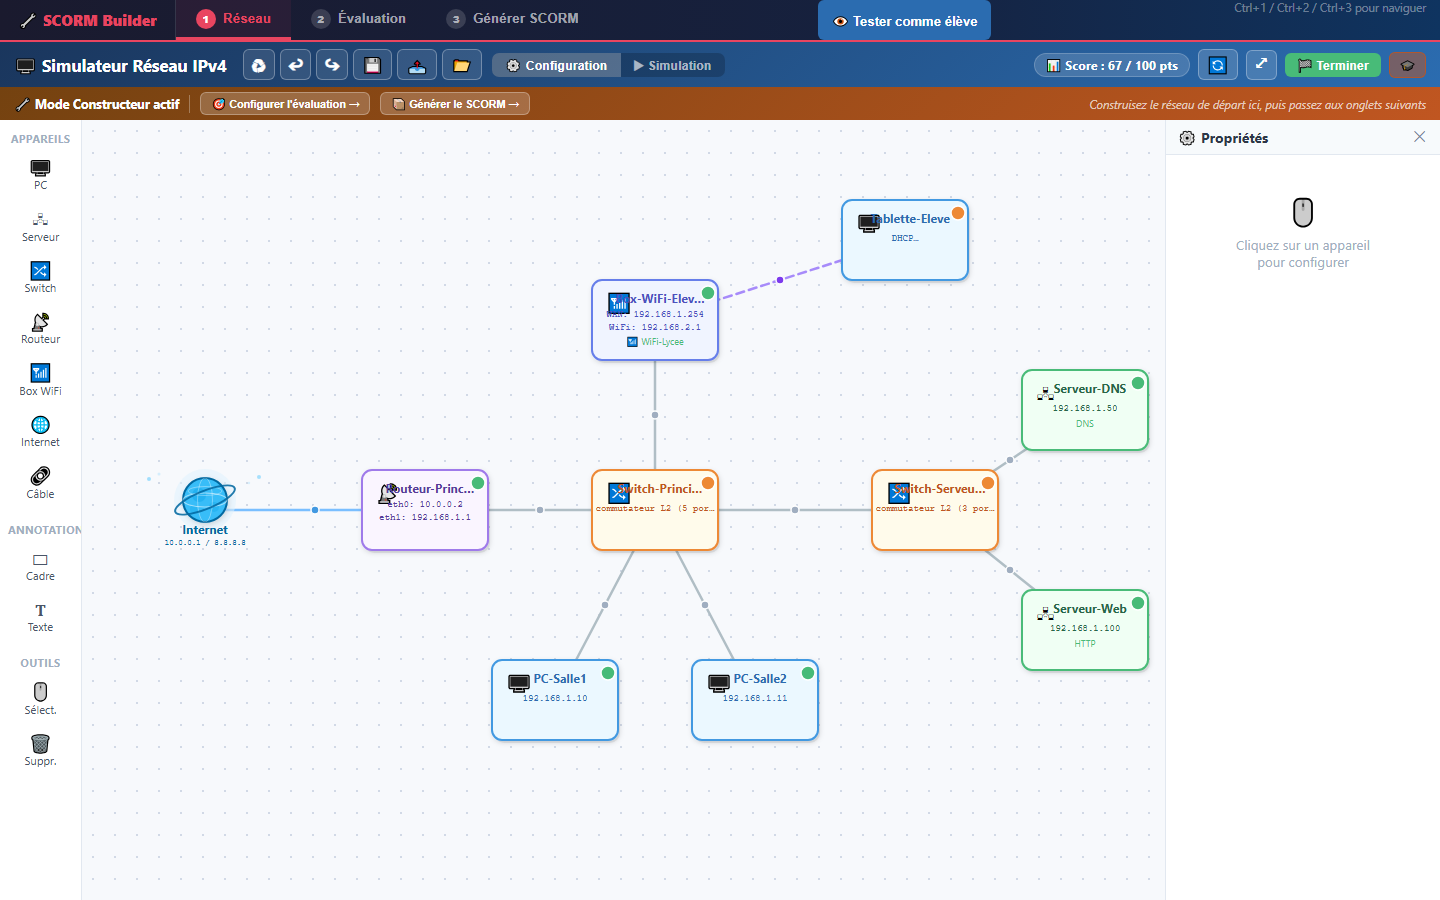
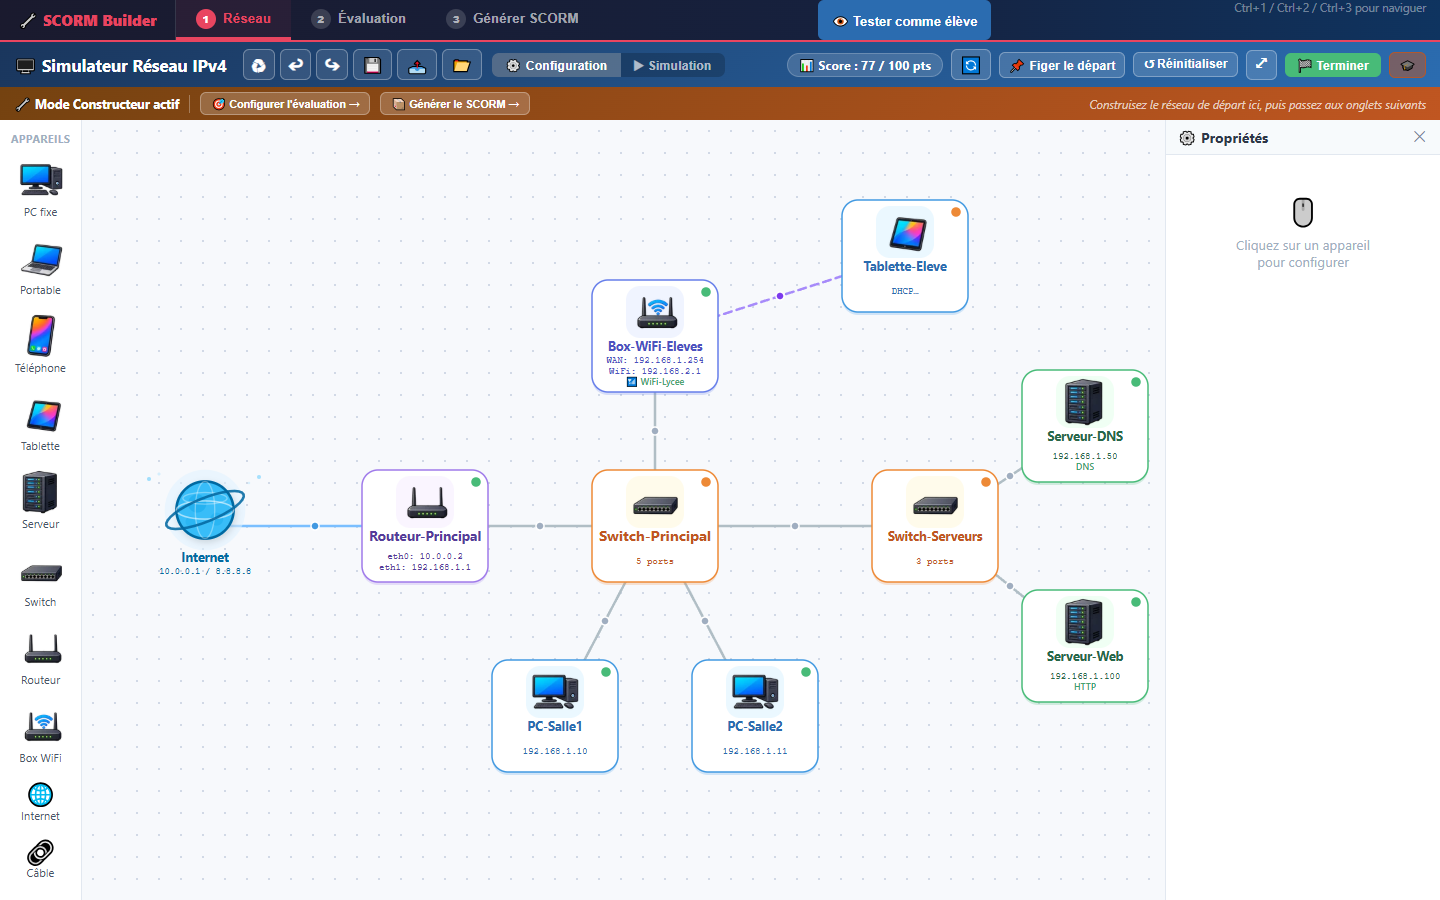
docs: release v1.6 — cartes illustrées, score en direct, Figer/Réinitialiser

diff --git a/site/index.html b/site/index.html
@@ -143,7 +143,7 @@ footer .wrap { display: flex; flex-wrap: wrap; gap: 8px 24px; justify-content: s
 
 <header class="top">
   <div class="wrap">
-    <a class="brand" href="#">Simulateur Réseau IPv4<span class="mono">v1.5</span></a>
+    <a class="brand" href="#">Simulateur Réseau IPv4<span class="mono">v1.6</span></a>
     <nav aria-label="Sections de la page">
       <a href="#exemples">Exemples</a>
       <a href="#builder">Interface enseignant</a>
@@ -162,7 +162,7 @@ footer .wrap { display: flex; flex-wrap: wrap; gap: 8px 24px; justify-content: s
         <div class="phase">
           <p class="phase-label">Concevoir</p>
           <h3>Créer un réseau</h3>
-          <p>Glissez PC, serveurs, switchs, routeurs et box WiFi sur le canevas, câblez-les, puis réglez les adresses IP et les services HTTP, DNS et DHCP.</p>
+          <p>Glissez PC fixes et portables, téléphones, tablettes, serveurs, switchs, routeurs et box WiFi sur le canevas, câblez-les, puis réglez les adresses IP et les services HTTP, DNS et DHCP.</p>
           <h3>Modifier un réseau</h3>
           <p>Importez un exemple ou l’un de vos scénarios enregistrés en JSON, adaptez-le à votre classe, puis exportez une nouvelle version.</p>
         </div>
@@ -185,7 +185,7 @@ footer .wrap { display: flex; flex-wrap: wrap; gap: 8px 24px; justify-content: s
       </div>
 
       <figure class="shot">
-        <img src="assets/eleve-terminal.png" width="1440" height="900" loading="lazy" alt="Simulateur en mode Simulation : réseau domestique avec Box WiFi, switch, trois appareils et Internet. Dans le terminal, le ping échoue et la cause indique que la passerelle 192.168.99.1 n’est pas dans le sous-réseau de PC-Bureau.">
+        <img src="assets/eleve-terminal.png" width="1440" height="900" loading="lazy" alt="Simulateur en mode Simulation : réseau domestique avec Box WiFi, switch, trois appareils et Internet, fiche de PC-Bureau ouverte. Dans le terminal, le ping échoue et la cause indique que la passerelle 192.168.99.1 n’est pas dans le sous-réseau de PC-Bureau.">
         <figcaption>Activité « Réseau Maison » : le <code>ping</code> échoue, à l’élève de trouver quel réglage corriger.</figcaption>
       </figure>
     </div>
@@ -261,6 +261,7 @@ footer .wrap { display: flex; flex-wrap: wrap; gap: 8px 24px; justify-content: s
         <ul class="checks">
           <li><b>Réseau :</b> appareils, câbles, adressage et WiFi</li>
           <li><b>Évaluation :</b> objectifs, score et pannes</li>
+          <li><b>Test :</b> score en direct et retour à l’état de départ en un clic</li>
           <li><b>Générer :</b> exports et import de scénarios</li>
         </ul>
         <a class="btn primary" href="scorm-builder.html">Ouvrir l’interface enseignant</a>
@@ -304,12 +305,12 @@ footer .wrap { display: flex; flex-wrap: wrap; gap: 8px 24px; justify-content: s
         <a class="doc" href="doc-prof.pdf">
           <h3>Guide enseignant</h3>
           <p>Créer une activité avec le builder et la déployer sur Moodle.</p>
-          <span class="mono">doc-prof.pdf · v1.5</span>
+          <span class="mono">doc-prof.pdf · v1.6</span>
         </a>
         <a class="doc" href="doc-eleve.pdf">
           <h3>Guide élève</h3>
           <p>Prendre en main l’interface et les commandes du terminal.</p>
-          <span class="mono">doc-eleve.pdf · v1.5</span>
+          <span class="mono">doc-eleve.pdf · v1.6</span>
         </a>
       </div>
     </div>
@@ -318,7 +319,7 @@ footer .wrap { display: flex; flex-wrap: wrap; gap: 8px 24px; justify-content: s
 
 <footer>
   <div class="wrap">
-    <span>Simulateur Réseau IPv4 · <a href="https://github.com/SII-GuilbertS/simulateur-reseau-scorm/releases/tag/v1.5">version 1.5</a> · novembre 2026</span>
+    <span>Simulateur Réseau IPv4 · <a href="https://github.com/SII-GuilbertS/simulateur-reseau-scorm/releases/tag/v1.6">version 1.6</a> · novembre 2026</span>
     <span>Réalisé par <a href="mailto:sylvain.guilbert1@ac-toulouse.fr">Sylvain Guilbert</a> avec l’aide de l’IA Claude</span>
     <a href="https://github.com/SII-GuilbertS/simulateur-reseau-scorm">Code source sur GitHub</a>
     <span>Usage non commercial. Code : <a href="https://github.com/SII-GuilbertS/simulateur-reseau-scorm/blob/master/LICENSE">PolyForm Noncommercial 1.0.0</a>. Guides et scénarios : <a href="https://github.com/SII-GuilbertS/simulateur-reseau-scorm/blob/master/LICENSE-CONTENU.txt">CC BY-NC-SA 4.0</a>.</span>

diff --git a/tools/gen_docs.py b/tools/gen_docs.py
@@ -157,7 +157,7 @@ def page_template(canvas, doc):
     canvas.restoreState()
 
 # ══════════════════════════════════════════════════════════════════════════════
-#  DOC PROF  v1.5
+#  DOC PROF  v1.6
 # ══════════════════════════════════════════════════════════════════════════════
 def build_prof(out_path):
     doc = SimpleDocTemplate(out_path, pagesize=A4,
@@ -166,7 +166,7 @@ def build_prof(out_path):
     doc._badge       = 'Mode Constructeur'
     doc._title       = 'Guide Enseignant'
     doc._tagline     = 'Créer et déployer des activités réseau sur Moodle'
-    doc._subtitle    = 'Documentation v1.5'
+    doc._subtitle    = 'Documentation v1.6'
     doc._subnote     = 'Outil pédagogique pour l\'enseignement des réseaux informatiques'
     doc._headertitle = 'Guide Enseignant'
     doc._hdr_color   = NAVY
@@ -195,9 +195,11 @@ def build_prof(out_path):
     story += [
         Paragraph('2.1 Onglet 1 — Construire le réseau', H2),
         Paragraph(
-            'La palette propose sept types d\'appareils : <b>PC</b>, <b>Serveur</b>, <b>Switch</b>, '
-            '<b>Routeur</b>, <b>Box WiFi</b> (routeur WiFi avec DHCP intégré), <b>Internet</b> '
-            'et l\'outil <b>Câble</b>. Faites glisser les appareils sur le canevas, puis configurez '
+            'La palette propose quatre modèles de terminaux — <b>PC fixe</b> (câble), <b>PC portable</b> '
+            '(câble et WiFi), <b>Téléphone</b> et <b>Tablette</b> (WiFi uniquement) — ainsi que '
+            '<b>Serveur</b>, <b>Switch</b>, <b>Routeur</b>, <b>Box WiFi</b> (routeur WiFi avec DHCP intégré), '
+            '<b>Internet</b> et l\'outil <b>Câble</b>. Chaque appareil apparaît sous forme de carte '
+            'illustrée. Faites glisser les appareils sur le canevas, puis configurez '
             'leurs propriétés (IP, masque, passerelle, DNS, services HTTP/DNS/DHCP, SSID WiFi) '
             'dans le panneau de droite.',
             BODY),
@@ -206,6 +208,14 @@ def build_prof(out_path):
         Paragraph('• Liaison WiFi : utilisez la <b>Box WiFi</b> et reliez-la aux PC.', BODY_L),
         Paragraph('• <b>Ctrl+Z / Ctrl+Y</b> : annuler / rétablir. <b>Ctrl+C / Ctrl+V</b> : copier / coller un appareil.', BODY_L),
         Paragraph('• <b>Ctrl+S</b> : sauvegarder la session dans le navigateur.', BODY_L),
+        Paragraph('• Le <b>score</b> en haut à droite se met à jour à chaque modification du réseau : '
+                  'corrigez le réseau pour vérifier que vos objectifs rapportent bien leurs points.', BODY_L),
+        Paragraph('• <b>Figer le départ</b> mémorise le réseau actuel comme état de départ '
+                  '(fait automatiquement à l\'import d\'un scénario). <b>Réinitialiser</b> y revient après vos '
+                  'essais : appareils et câbles ajoutés supprimés, éléments supprimés remis, configurations '
+                  'restaurées, objectifs remis à zéro. Les positions sont conservées ; Ctrl+Z annule.', BODY_L),
+        callout('L\'export reprend le réseau affiché : après avoir testé vos corrections, '
+                'cliquez sur <b>Réinitialiser</b> avant d\'exporter.', WARN, '⚠'),
         Spacer(1, 6),
     ]
 
@@ -315,7 +325,7 @@ def build_prof(out_path):
         ['2', 'Construire le réseau',     'Onglet 1 : appareils, câbles, IP.'],
         ['3', 'Configurer l\'évaluation', 'Onglet 2 : objectifs, pannes, score de maîtrise.'],
         ['4', 'Générer',                  'Onglet 3 : SCORM, HTML ou énoncé imprimable.'],
-        ['5', 'Tester',                   'Bouton "Aperçu élève" ou ouvrir le .html exporté.'],
+        ['5', 'Tester',                   'Corriger le réseau puis Réinitialiser, ou bouton "Aperçu élève".'],
         ['6', 'Déployer sur Moodle',      'Importez le .zip SCORM dans votre cours.'],
         ['7', 'Sauvegarder le scénario',  'Onglet 3 → Exporter le scénario (.json) pour réutiliser.'],
     ]]
@@ -358,7 +368,7 @@ def build_prof(out_path):
 
 
 # ══════════════════════════════════════════════════════════════════════════════
-#  DOC ELEVE  v1.5
+#  DOC ELEVE  v1.6
 # ══════════════════════════════════════════════════════════════════════════════
 def build_eleve(out_path):
     doc = SimpleDocTemplate(out_path, pagesize=A4,
@@ -367,7 +377,7 @@ def build_eleve(out_path):
     doc._badge       = 'Mode Simulation'
     doc._title       = 'Guide Élève'
     doc._tagline     = 'Apprendre les réseaux en simulant les protocoles TCP/IP'
-    doc._subtitle    = 'Guide élève v1.5'
+    doc._subtitle    = 'Guide élève v1.6'
     doc._subnote     = 'Activité pédagogique — Lycée'
     doc._headertitle = 'Guide Élève'
     doc._hdr_color   = DGREEN
